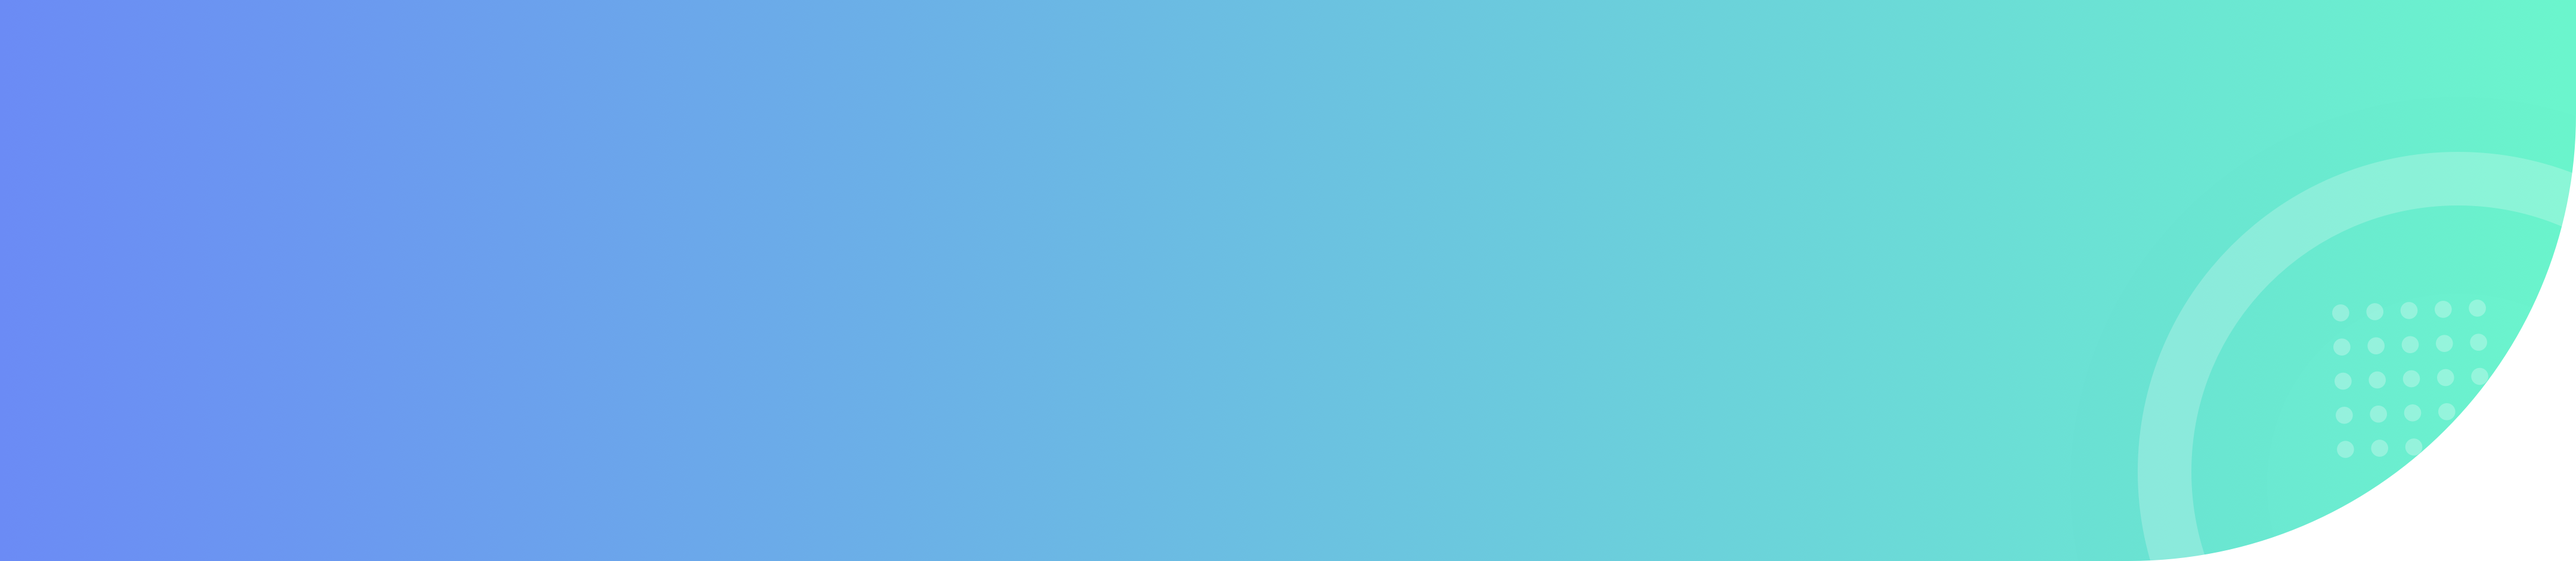
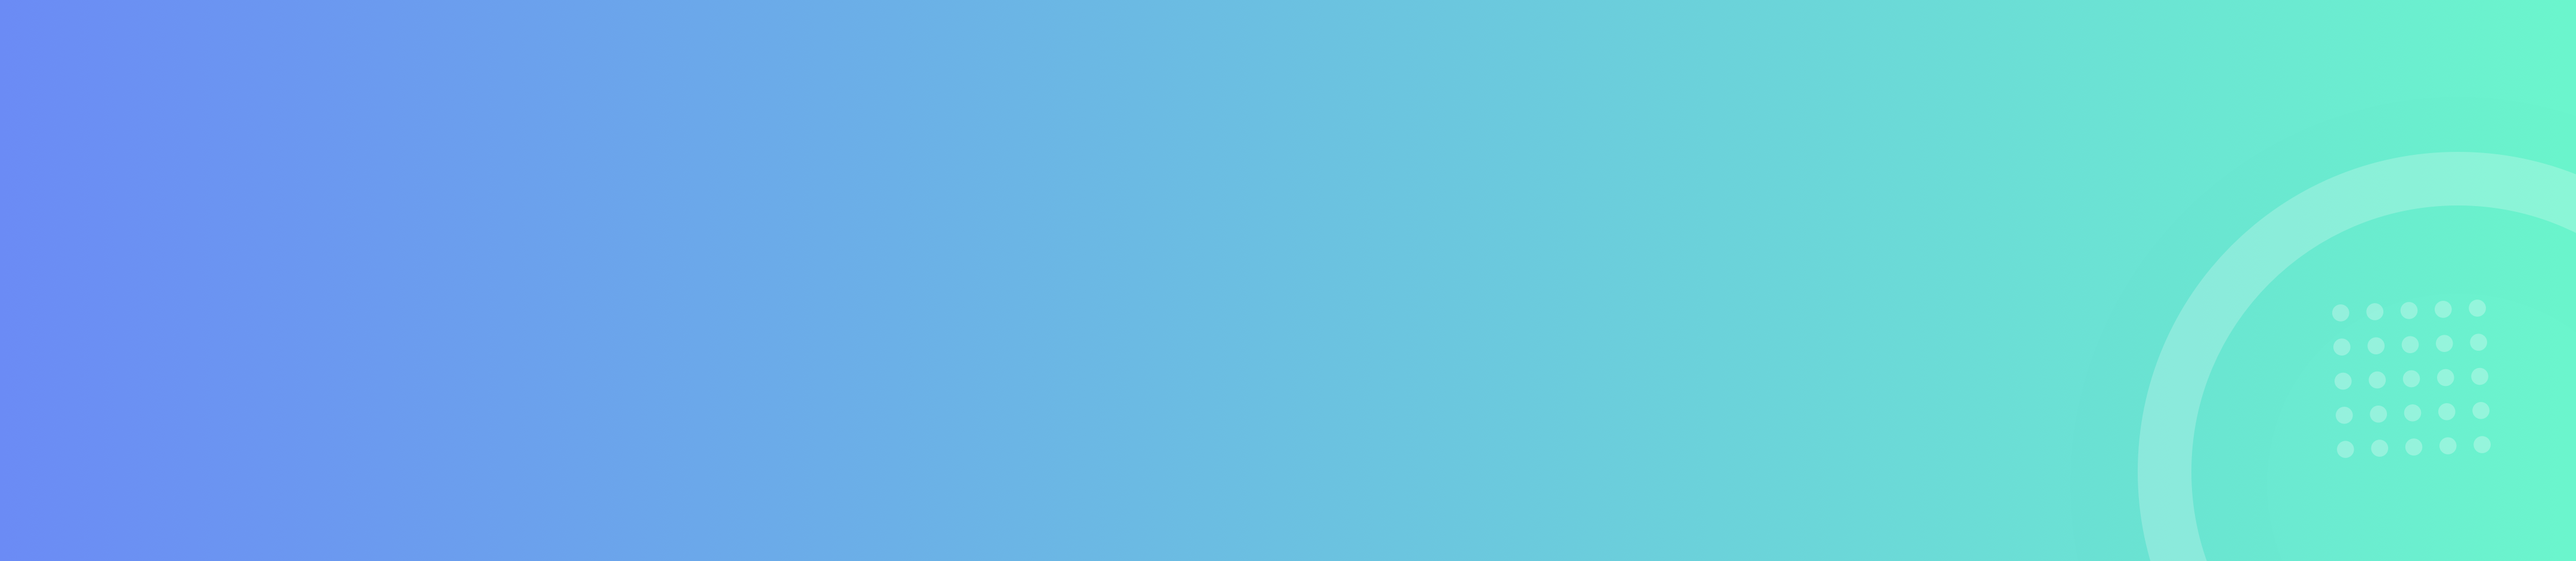
fix header border

Changed region(s): [[0.8438, 0.3386, 1.0, 1.0]]

diff --git a/src/pages/Communities/CommunitiesRender.js b/src/pages/Communities/CommunitiesRender.js
@@ -8,12 +8,13 @@ import MegaCommunityCard from 'components/MegaCommunityCard'
 import HeaderBackgroundSrc from 'images/background-header.png'
 
 const Header = styled(Card)`
-  height: 380px;
+  height: 315px;
   width: 100%;
   background: url('${HeaderBackgroundSrc}');
   background-repeat: no-repeat;
   background-size: cover;
   background-position: center;
+  border-bottom-right-radius: 345px;
 `
 
 const AbsoluteLink = styled.a.attrs(props => ({
@@ -52,7 +53,7 @@ const WhiteOutlineButton = styled(Button).attrs({
 
 const CountBadge = styled(Flex).attrs({
   color: '#fff',
-  bg: '#5269ff',
+  bg: '#42c47f',
   width: '43px',
   justifyContent: 'center',
   alignItems: 'center',
